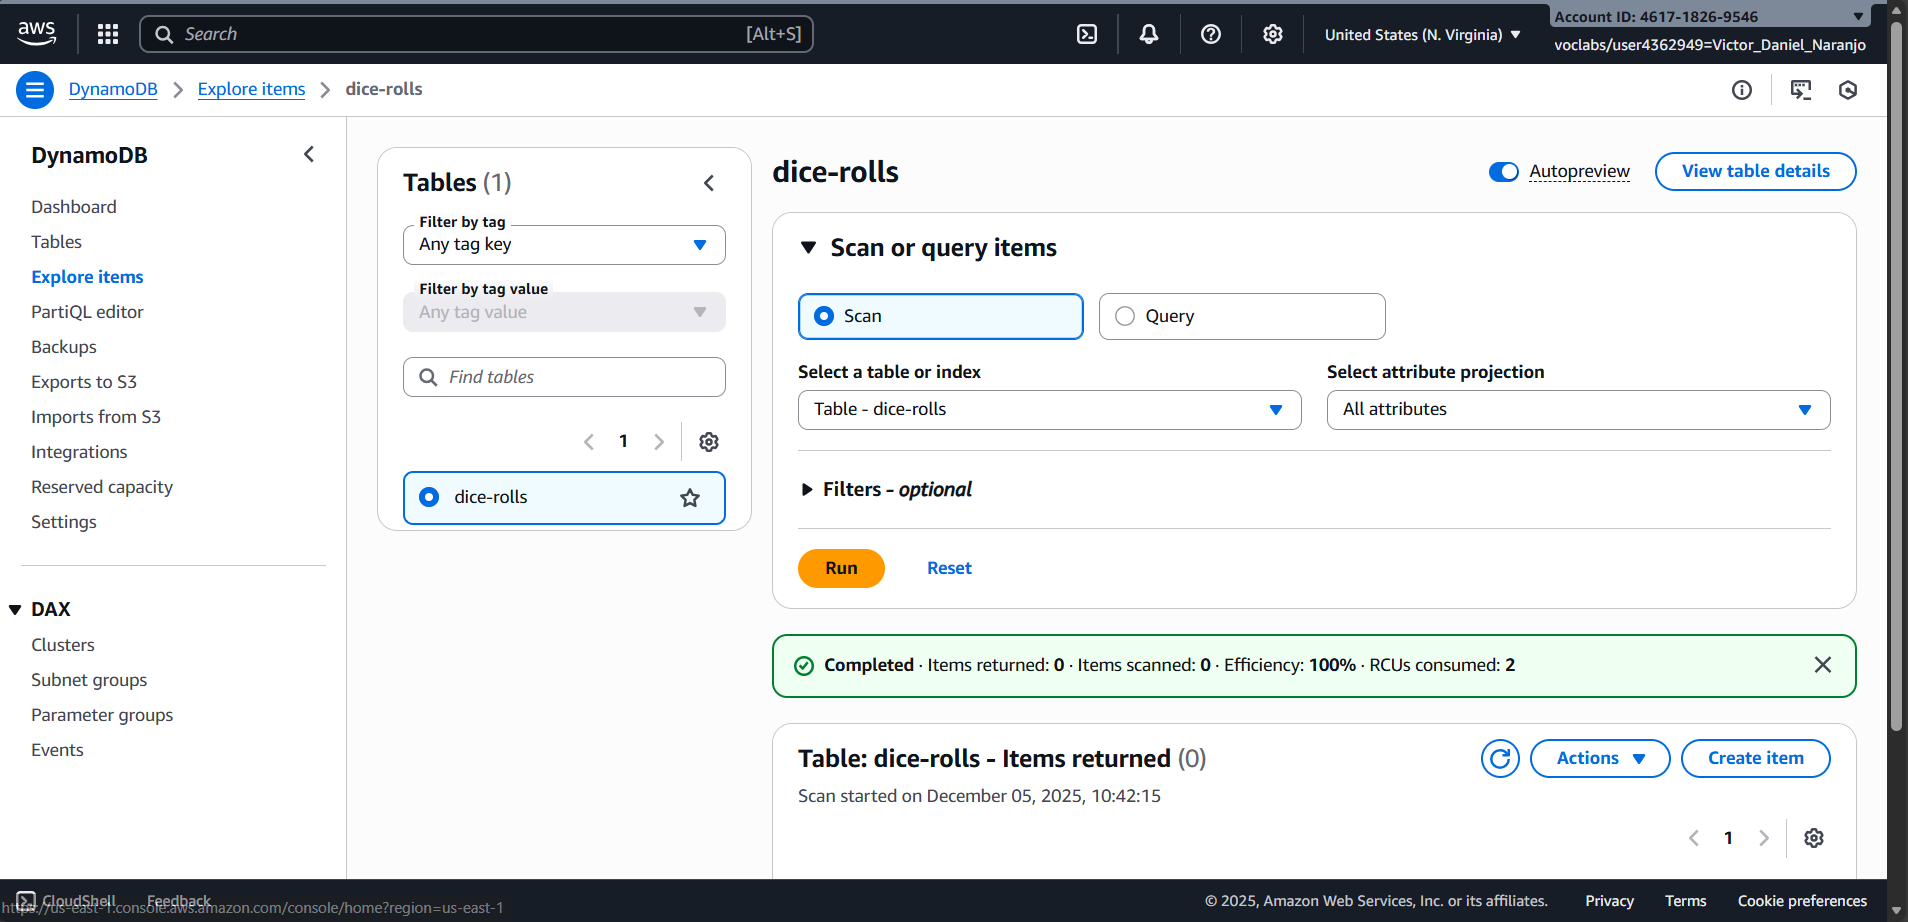
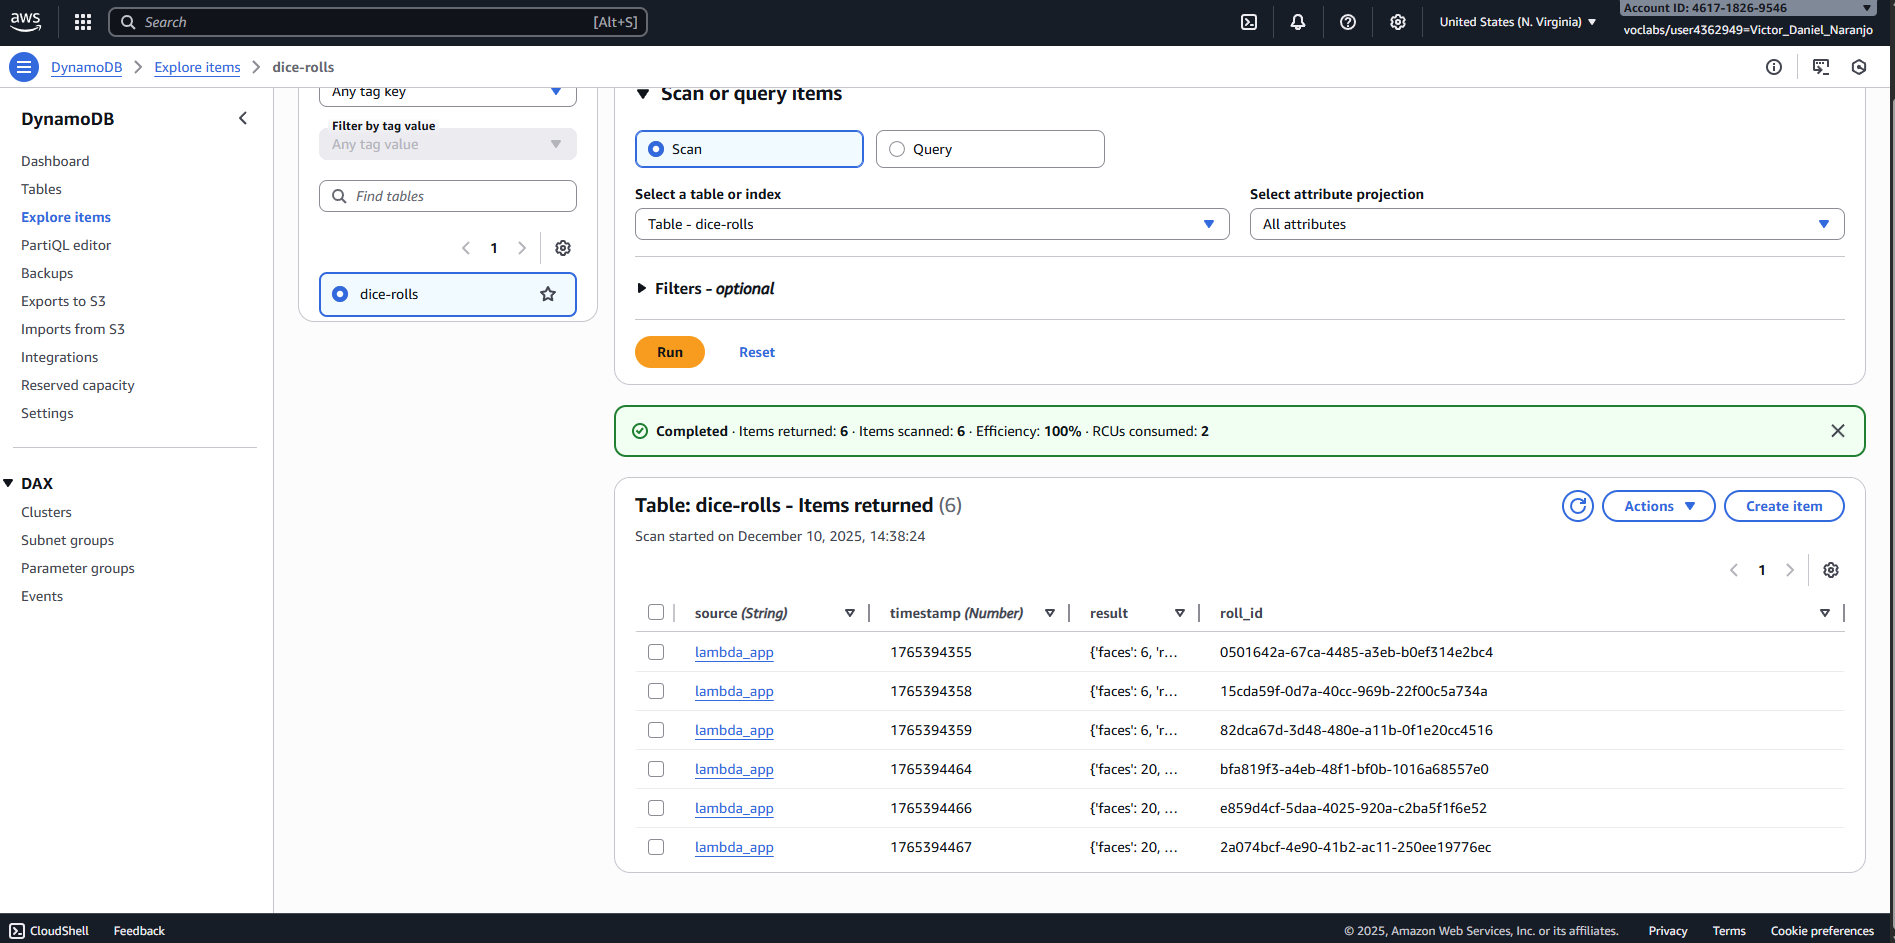
data aggreation into dynamodb fixed

diff --git a/app/data.py b/app/data.py
@@ -1,7 +1,7 @@
 import boto3
 import os
 import uuid
-from datetime import datetime
+from datetime import datetime, timezone
 
 # Allow table name to be overridden by Env Var (useful for Terraform integration)
 TABLE_NAME = os.environ.get('DYNAMODB_TABLE', 'dice-rolls')
@@ -17,11 +17,12 @@ def save_roll_history(roll_result, source):
         
         item = {
             'roll_id': str(uuid.uuid4()),
-            'timestamp': datetime.now(datetime.timezone.utc).isoformat(),
+            'timestamp': int(datetime.now(timezone.utc).timestamp()),
             'source': source,
             'result': str(roll_result)
         }
         
+        print(f"Saving to DynamoDB: {item}")
         table.put_item(Item=item)
         print(f"Saved to DynamoDB: {item}")
     except Exception as e:
